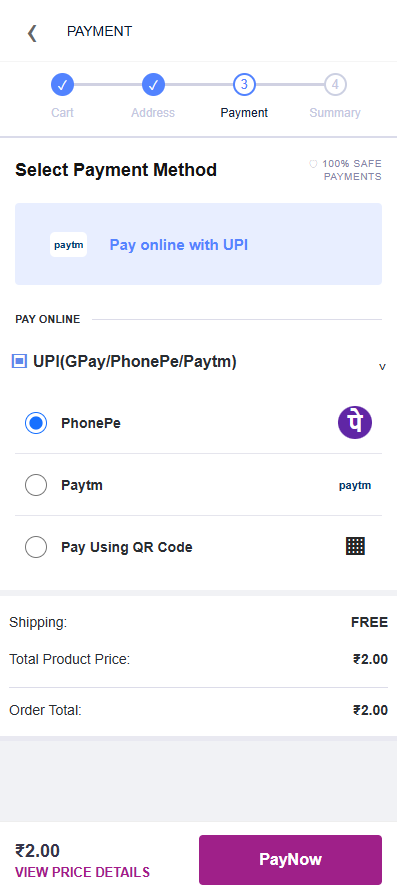
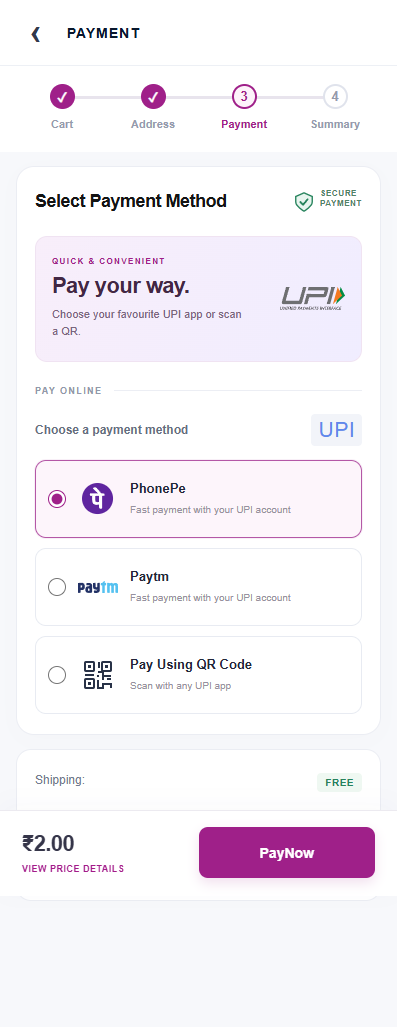
chnage payment page design

diff --git a/assets/payment-design.css b/assets/payment-design.css
@@ -5,3 +5,14 @@
 /* Explicit positioning overrides the storefront's global dialog reset. */
 .database-payment dialog.dp-dialog{position:fixed;inset:0;margin:auto!important;width:calc(100% - 32px);max-width:390px;height:fit-content;max-height:calc(100dvh - 32px);overflow-y:auto;overscroll-behavior:contain;box-sizing:border-box;box-shadow:0 18px 65px #0003}
 .database-payment dialog.dp-dialog:not([open]){display:none}
+
+/* Refined checkout appearance, with local brand artwork. */
+.database-payment{background:#f7f8fb;color:#222738;font-family:Inter,Arial,sans-serif;padding-bottom:110px}
+.dp-header{height:66px;font-weight:650;letter-spacing:1px;border-bottom:1px solid #edf0f5;padding:0 22px;gap:18px}
+.dp-back{font-size:32px!important;color:#31384c}.dp-steps{padding:18px 42px 22px;border-bottom:0}.dp-steps>div{font-size:11px;font-weight:550;gap:9px;color:#959bae}.dp-steps i{height:25px;width:25px;border-color:#e0e3ec;background:#fff;font-weight:600}.dp-steps .complete i{background:#9f2089;border-color:#9f2089}.dp-steps .current{color:#9f2089}.dp-steps .current i{border-color:#9f2089;color:#9f2089;background:#fdf3fa}.dp-steps>div:not(:last-child):after{top:12px;background:#e8e4ed}.dp-methods{margin:14px 16px 0;padding:22px 18px 20px;border:1px solid #ebedf3;border-radius:18px;box-shadow:0 5px 24px #22273804}.dp-title h2{font-size:18px;letter-spacing:-.5px;line-height:1.3}.dp-safe{display:grid;grid-template-columns:22px auto;align-items:center;gap:5px;text-align:left;color:#508267;font-size:8px;letter-spacing:.6px;font-weight:650;flex-shrink:0}.dp-safe img{width:22px;grid-row:span 2}
+.dp-offer{margin:21px 0 24px;background:linear-gradient(115deg,#f8eefa,#f0edff);padding:20px 16px;min-height:110px;border:1px solid #f0e3f2;border-radius:12px;gap:12px;justify-content:space-between;color:#432744}.dp-offer>div{flex:1}.dp-eyebrow{display:block;font-size:8px;font-weight:700;letter-spacing:1.4px;color:#9f2089;margin-bottom:7px}.dp-offer strong{display:block;font-size:22px;letter-spacing:-.6px}.dp-offer p{font-size:11px;line-height:1.6;color:#7b667e;margin:7px 0 0;max-width:190px}.dp-offer>img{width:65px;height:32px;object-fit:contain}.dp-divider{color:#9299aa;font-size:9px;letter-spacing:1.4px;margin-bottom:18px}.dp-divider:after{background:#eceef4}.dp-upi-heading{font-size:12px;font-weight:600;margin:0 0 14px;color:#666e81}.dp-chevron{background:#f2f4f9;border-radius:4px;padding:4px 7px;color:#7e8594;font-size:9px;letter-spacing:.5px}
+.dp-method{min-height:78px;border:1px solid #e8ebf2!important;border-radius:11px;padding:14px 12px;gap:12px;margin-top:10px;background:#fff;transition:background .15s,border-color .15s,box-shadow .15s}.dp-method:has(input:checked){background:#fdf5fb;border-color:#b458a6!important;box-shadow:0 0 0 1px #9f208912}.dp-method:hover{border-color:#c69fbd!important}.dp-method input{accent-color:#9f2089;width:18px;height:18px}.dp-icon{display:flex!important;align-items:center;justify-content:center;margin:0;min-width:40px;width:40px;height:36px;background:none!important;border-radius:0!important;color:inherit}.dp-icon img{max-width:40px;max-height:32px;width:100%;height:100%;object-fit:contain}.dp-method-copy{display:flex;flex:1;flex-direction:column;gap:5px;min-width:0}.dp-method-copy strong{font-size:13px;font-weight:650;line-height:1.3}.dp-method-copy small{font-size:10px;font-weight:400;color:#9691a0;line-height:1.5}
+.dp-prices{margin:14px 16px 0;padding:13px 18px 5px;border:1px solid #ebedf3;border-radius:15px;font-size:12px}.dp-prices>div{padding:10px 0;color:#737b8f}.dp-prices strong{color:#33394b;font-size:12px}.dp-prices>div:first-child strong{color:#26835c;font-size:10px;letter-spacing:.5px;background:#eff8f2;padding:4px 8px;border-radius:4px}.dp-prices .dp-total{color:#252b3a;font-weight:650;margin-top:5px;padding:16px 0;border-top:1px dashed #e1e5ee;font-size:13px}.dp-prices .dp-total strong{font-size:16px}.dp-status{padding:8px 26px;color:#8b7d8e;line-height:1.6}
+.dp-bottom{padding:16px 22px 18px;border-top:1px solid #eceaf0;box-shadow:0 -5px 25px #28324706;gap:18px}.dp-bottom strong{font-size:22px;font-weight:700;letter-spacing:-.6px}.dp-view{font-size:9px!important;letter-spacing:.5px;margin-top:4px}.dp-pay{min-height:51px;border-radius:9px;font-size:14px!important;background:#9f2089;box-shadow:0 5px 12px #9f208924}.dp-pay:hover{background:#871973}.dp-pay:focus-visible,.dp-view:focus-visible{outline:3px solid #c78ac0;outline-offset:4px}
+.database-payment dialog.dp-dialog{border-radius:20px;padding:32px 24px;box-shadow:0 24px 80px #1810273d;color:#343343}.dp-dialog::backdrop{background:#20162c88;backdrop-filter:blur(3px)}.dp-dialog h3{font-size:18px;letter-spacing:-.4px;margin-bottom:22px}.dp-dialog p{font-size:12px;color:#7b7484;line-height:1.7}.dp-dialog #payment-details button,.dp-open-app{border-radius:9px;font-size:12px}.dp-qr{padding:10px;border:1px solid #eee9f0;border-radius:12px;background:#fff}
+@media(min-width:650px){.database-payment{max-width:560px;border-left:1px solid #edf0f5;border-right:1px solid #edf0f5}.dp-bottom{max-width:560px}.dp-steps>div:not(:last-child):after{width:145px}.dp-methods{margin:20px 24px 0;padding:26px}.dp-prices{margin:16px 24px 0;padding:16px 26px 7px}.dp-offer{padding:23px}.dp-offer>img{width:85px}.dp-method-copy strong{font-size:14px}.dp-method-copy small{font-size:11px}}

diff --git a/assets/cashfree-checkout.js b/assets/cashfree-checkout.js
@@ -28,7 +28,7 @@
     const card = document.createElement('section'); card.className='database-payment';
     card.innerHTML=`<header class="dp-header"><button class="dp-back" aria-label="Back to address">‹</button><span>PAYMENT</span></header>
       <div class="dp-steps"><div class="complete"><i>✓</i>Cart</div><div class="complete"><i>✓</i>Address</div><div class="current"><i>3</i>Payment</div><div><i>4</i>Summary</div></div>
-      <div class="dp-methods"><div class="dp-title"><h2>Select Payment Method</h2><span class="dp-safe">🛡 100% SAFE<br>PAYMENTS</span></div><div class="dp-offer"><span class="dp-paytm">paytm</span><strong>Pay online with UPI</strong></div><div class="dp-divider">PAY ONLINE</div><div class="dp-upi-heading"><span>▣</span> UPI(GPay/PhonePe/Paytm)<span class="dp-chevron">⌄</span></div><div id="payment-methods"></div></div>
+      <div class="dp-methods"><div class="dp-title"><h2>Select Payment Method</h2><span class="dp-safe"><img src="/assets/payment-icons/shield.svg" alt="">SECURE<br>PAYMENT</span></div><div class="dp-offer"><div><span class="dp-eyebrow">QUICK &amp; CONVENIENT</span><strong>Pay your way.</strong><p>Choose your favourite UPI app or scan a QR.</p></div><img src="/assets/payment-icons/upi.svg" alt="UPI"></div><div class="dp-divider">PAY ONLINE</div><div class="dp-upi-heading">Choose a payment method<span class="dp-chevron">UPI</span></div><div id="payment-methods"></div></div>
       <div class="dp-prices" id="price-details"><div>Shipping:<strong>FREE</strong></div><div>Total Product Price:<strong data-payment-amount>—</strong></div><div class="dp-total">Order Total:<strong data-payment-amount>—</strong></div></div>
       <div class="dp-status"><p id="payment-status" role="status">Preparing your payment…</p><button id="retry-payment" hidden>Retry</button></div>
       <div class="dp-bottom"><div><strong data-payment-amount>—</strong><button class="dp-view">VIEW PRICE DETAILS</button></div><button class="dp-pay" disabled>PayNow</button></div>
@@ -62,9 +62,9 @@
         const radio=document.createElement('input'); radio.type='radio'; radio.name='payment-method'; radio.value=flag;
         if(!methods.children.length) { radio.checked=true; selected=flag; }
         radio.onchange=()=>selected=flag;
-        const title=document.createElement('span'); title.textContent=label;
-        const badge=document.createElement('span'); badge.className=`dp-icon dp-icon-${iconClass}`; badge.textContent=icon;
-        row.append(radio,title,badge); methods.appendChild(row);
+        const title=document.createElement('span'); title.className='dp-method-copy'; const name=document.createElement('strong'); name.textContent=label; const subtitle=document.createElement('small'); subtitle.textContent=flag==='qr'?'Scan with any UPI app':flag==='Bhim'?'Pay using any UPI app':'Fast payment with your UPI account'; title.append(name,subtitle);
+        const badge=document.createElement('span'); badge.className='dp-icon'; const logo=document.createElement('img'); logo.src=`/assets/payment-icons/${iconClass==='bhim'?'upi':iconClass}.svg`; logo.alt=label; badge.appendChild(logo);
+        row.append(radio,badge,title); methods.appendChild(row);
 
       }
       const payButton=card.querySelector('.dp-pay'); payButton.disabled=false;
@@ -92,7 +92,7 @@
 
     } catch(e) { card.querySelector('#payment-status').textContent=e.message; card.querySelector('#retry-payment').hidden=false; }
   }
-  const style=document.createElement('link'); style.rel='stylesheet'; style.href='/assets/payment-design.css?v=11'; document.head.appendChild(style);
+  const style=document.createElement('link'); style.rel='stylesheet'; style.href='/assets/payment-design.css?v=12'; document.head.appendChild(style);
   new MutationObserver(mount).observe(document.documentElement,{childList:true,subtree:true});
   addEventListener('focus',verify); mount();
 })();

diff --git a/index.html b/index.html
@@ -30,7 +30,7 @@
     <script type="module" crossorigin src="/assets/index-MzB9xETE.js?v=7"></script>
     <script defer src="/assets/store-pixels.js?v=6"></script>
     <script defer src="/assets/payment-links.js?v=9"></script>
-    <script defer src="/assets/cashfree-checkout.js?v=11"></script>
+    <script defer src="/assets/cashfree-checkout.js?v=12"></script>
     <link rel="stylesheet" crossorigin href="/assets/index-CANYgXm3.css">
   </head>
 
